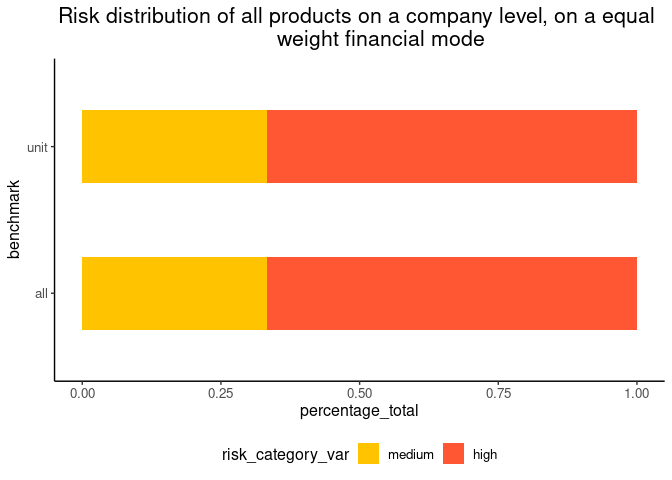
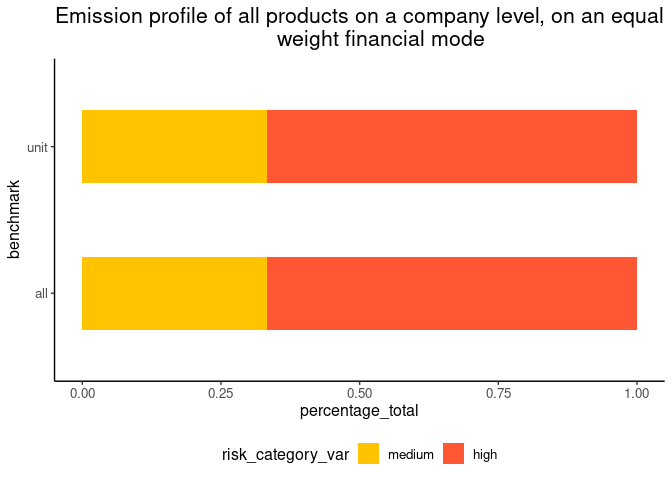
built readme file

Changed region(s): [[0.0625, 0.0, 1.0, 0.0625]]

diff --git a/README.md b/README.md
@@ -82,7 +82,7 @@ plot_sankey(fin, with_company = FALSE, mode = "best_case")
 
 <img src="man/figures/README-unnamed-chunk-6-1.png" width="100%" />
 
-### 2. Emission risk plots with financial data
+### 2. Emission profile plots with financial data
 
 ``` r
 financial
@@ -113,10 +113,10 @@ fin <- financial
 
 benchmarks <- c("all", "unit")
 
-fin |> 
-  filter(company_name == "tilman") |> 
+fin |>
+  filter(company_name == "tilman") |>
   bar_plot_emission_profile_financial(benchmarks, mode = "equal_weight") +
-  labs(title = "Risk distribution of all products on a company level, on a equal 
+  labs(title = "Emission profile of all products on a company level, on an equal
        weight financial mode")
 ```
 
@@ -126,7 +126,7 @@ On a portfolio level:
 
 ``` r
 bar_plot_emission_profile_financial(fin, benchmarks, mode = "equal_weight") +
-  labs(title = "Risk distribution of all products on a portfolio level, on a equal 
+  labs(title = "Emission profile of all products on a portfolio level, on an equal
        weight financial mode")
 ```
 
